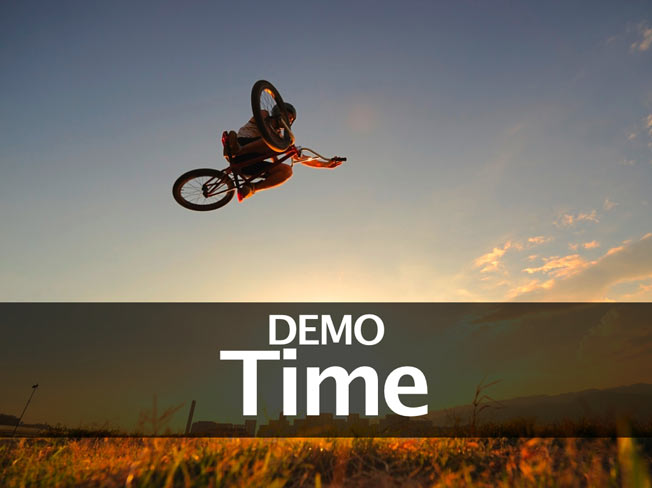
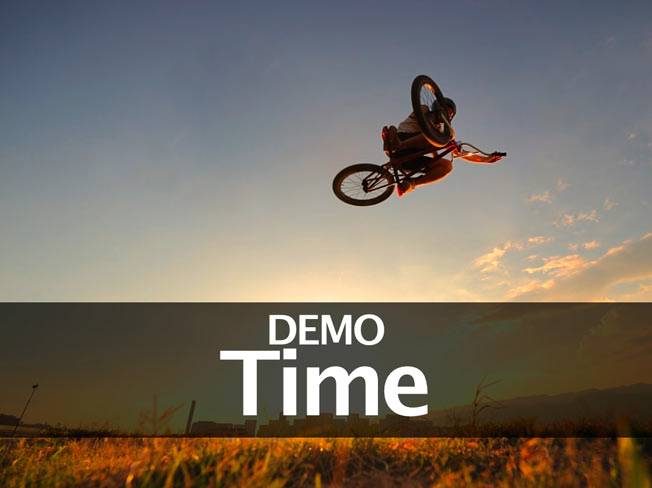
adding presentation link and old image

diff --git a/index.html b/index.html
@@ -22,13 +22,14 @@
 				<section data-state="fullscreen">
 					<h1>Responsive Web Design</h1>
 					<p>
+						<small>http://glauberramos.github.com/responsive-design-presentation</small>
 						<small>Created by Glauber Ramos / <a href="http://twitter.com/glauberamos">@glauberamos</a></small>
 					</p>
 				</section>
 				<section data-state="fullscreen">
 					<h1>Summary</h1>
 					<ol>
-						<li class="fragment">What is Responsive Responsive Web Design</li>
+						<li class="fragment">What is RWD</li>
 						<li class="fragment">Code Techniques</li>
 						<li class="fragment">General Techniques</li>
 						<li class="fragment">Demos</li>
@@ -44,7 +45,7 @@
 				<section class="book" data-state="fullscreen">
 					<h1>Ethan Marcotte</h1>
 				</section>
-				<section data-state="fullscreen">
+				<section class="old" data-state="fullscreen">
 					<h1>It is not new</h1>
 				</section>
 				<section class="toolset" data-state="fullscreen">
@@ -125,7 +126,14 @@
 					<h2>Resizing the browser</h2>
 					<h3>Breakpoint when content breaks</h3>
 				</section>
-				<section class="demo" data-state="fullscreen"></section>
+				<section class="demo" data-state="fullscreen">
+					<ul>
+						<li><a href="http://scottjehl.github.com/Respond/test/test.html">Demo 1</a></li>
+						<li><a href="http://sasquatchfestival.com/">Demo 2</a></li>
+						<li><a href="http://www.wkamst.com/">Demo 3</a></li>
+						<li><a href="http://www.ceavilapinto.org.br">Demo 4</a></li>
+					</ul>
+				</section>
 				<section data-state="fullscreen">
         			<h2>More information</h2>
         			<ul>

diff --git a/css/custom.css b/css/custom.css
@@ -17,9 +17,26 @@ h2 {
   background-image: url('../img/devices.png');
 }
 
+.old {
+  background-size: 100%;
+  background-image: url('../img/old.jpg');
+}
+
 .demo {
   background-size: 100% 85%;
   background-image: url('../img/demo.jpg');
+}
+
+.demo ul {
+  list-style: none !important;
+}
+
+.demo ul li {
+  font-size: 1.3em;
+}
+
+.demo ul li a {
+  color: white !important;
 }
 
 .example {
@@ -40,6 +57,7 @@ h2 {
 .toolset h2 {
   color: black !important;
   background: #CED2BB;
+  padding: 10px 0px !important;
 }
 
 .book h1 {
